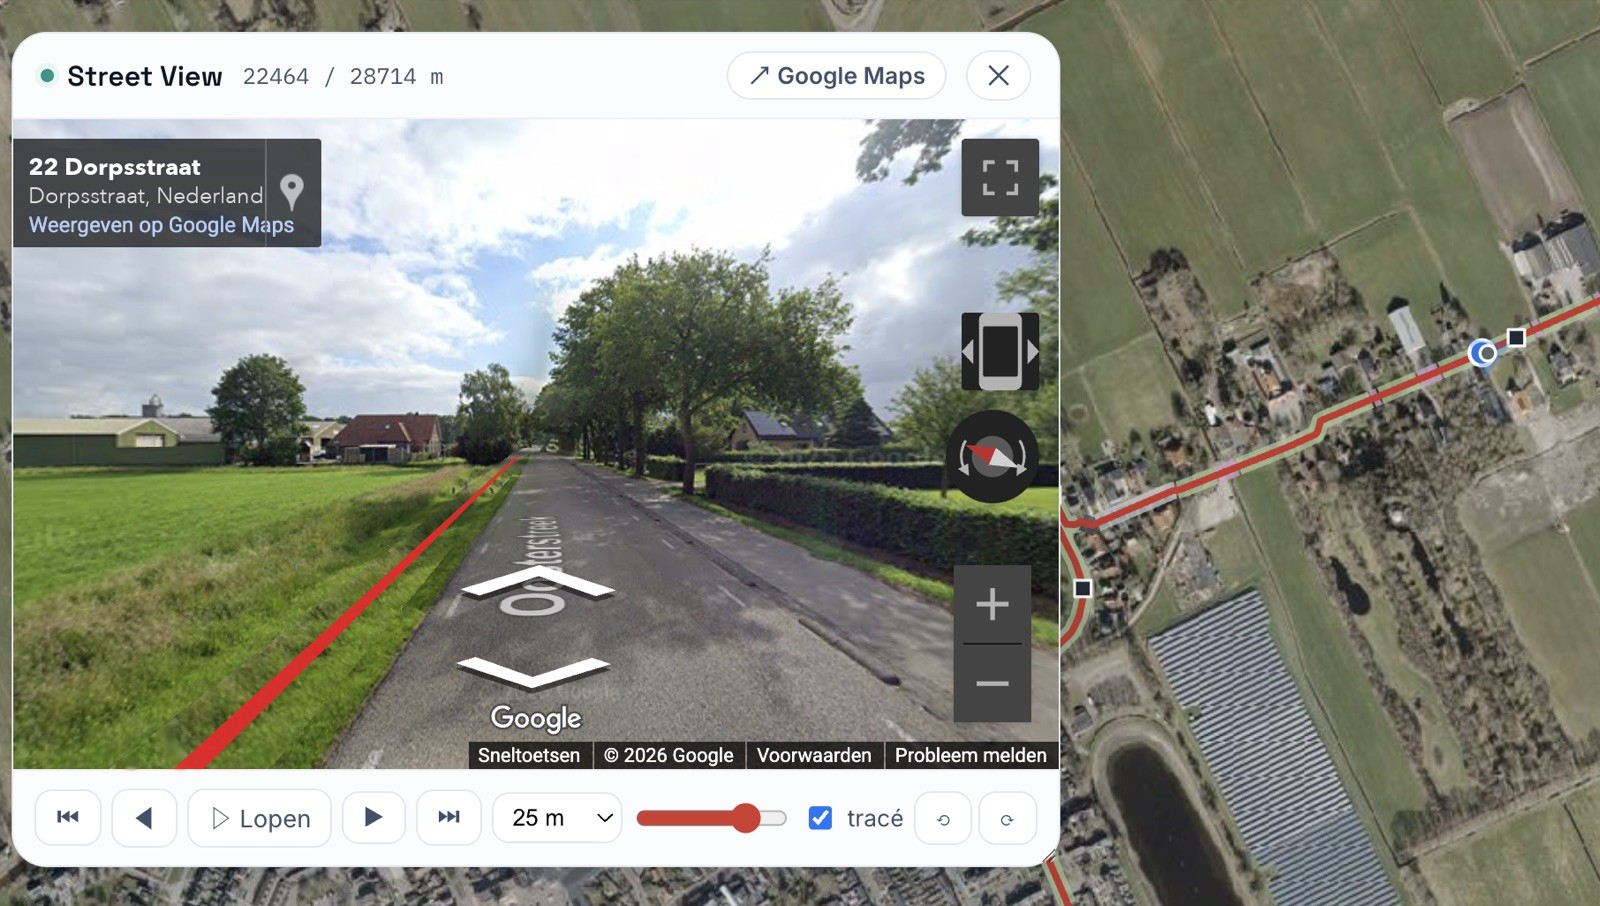
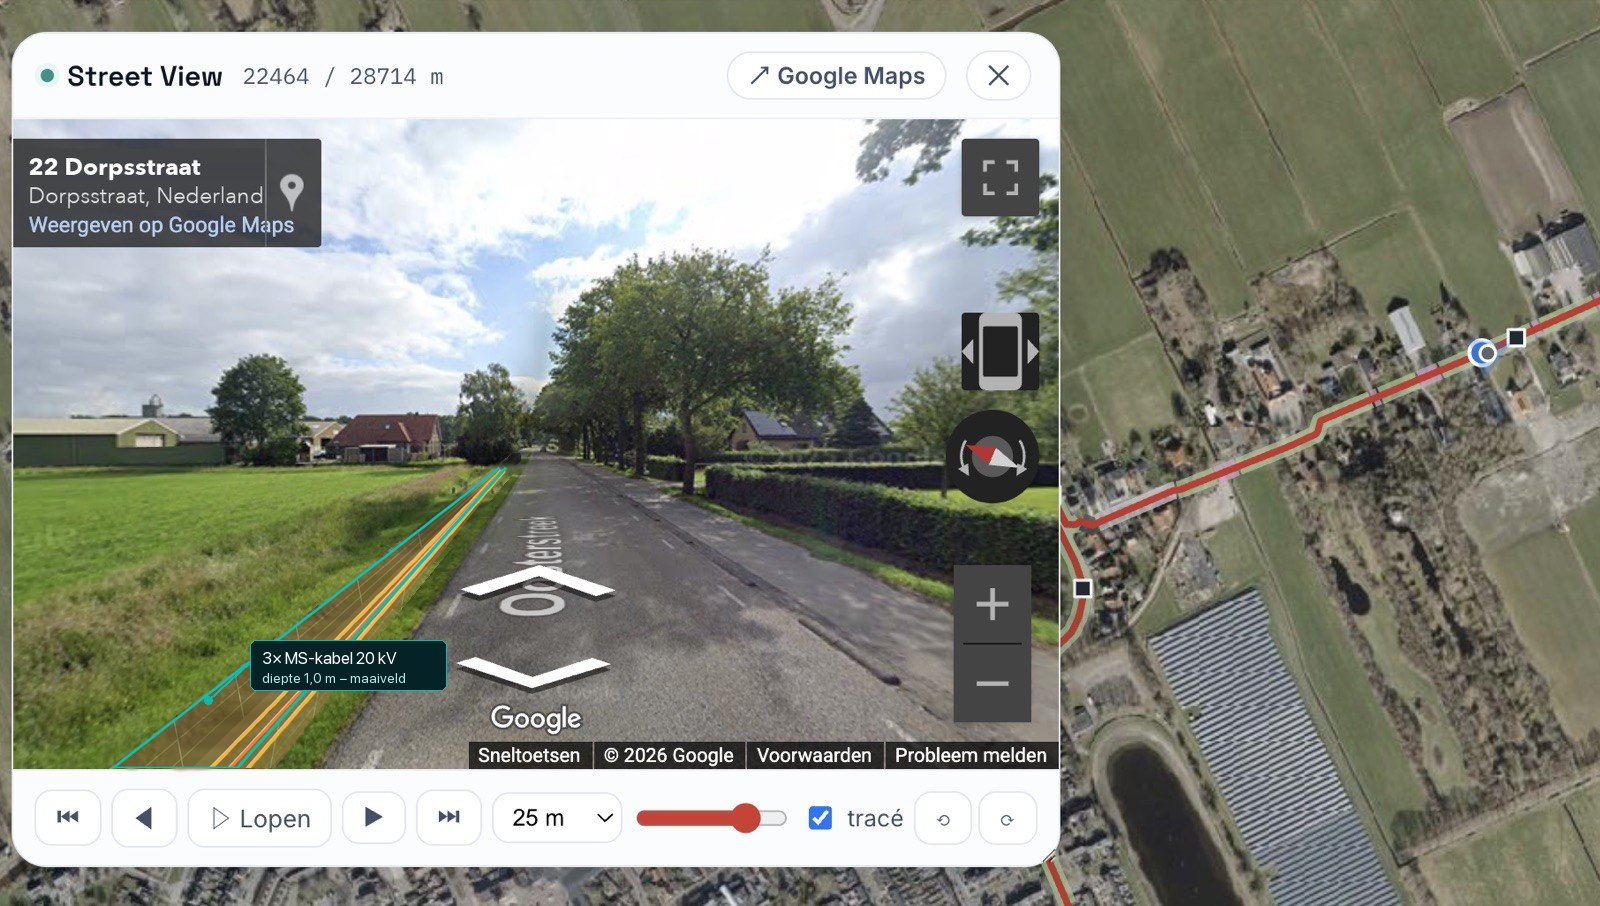
Street View met AR-sleuf en kabels, bureaustudies bij onderzoeken, nummering weg
- Tracé in Street View als doorkijk in de grond: sleuf met drie MS-kabels
- Bureaustudies als brede eerste kaart bij conditionerende onderzoeken
- Nummering weg bij diensten, onderzoeken en tijdwinst

Changed region(s): [[0.0625, 0.5254, 0.3125, 0.8653], [0.3125, 0.4945, 0.3438, 0.5254]]

diff --git a/index.html b/index.html
@@ -8,7 +8,7 @@
   <link rel="preconnect" href="https://fonts.googleapis.com">
   <link rel="preconnect" href="https://fonts.gstatic.com" crossorigin>
   <link href="https://fonts.googleapis.com/css2?family=Inter:wght@400;500;600;700&family=Space+Grotesk:wght@500;600;700&family=JetBrains+Mono:wght@500;700&display=swap" rel="stylesheet">
-  <link rel="stylesheet" href="css/style.css?v=20261020-18">
+  <link rel="stylesheet" href="css/style.css?v=20261021-1">
 </head>
 <body>
   <svg width="0" height="0" style="position:absolute" aria-hidden="true" focusable="false">
@@ -215,7 +215,7 @@
         </div>
 
         <figure class="expertise-visual">
-          <img src="images/trace-viewer.jpg?v=2" alt="Tracéviewer van VECTOR met een kabeltracé over satellietbeeld en een Street View-weergave langs het tracé" loading="lazy">
+          <img src="images/trace-viewer.jpg?v=3" alt="Tracéviewer van VECTOR: kabeltracé over satellietbeeld en een Street View-weergave waarin je als augmented reality door de grond kijkt naar drie kabels in de sleuf" loading="lazy">
         </figure>
       </div>
 
@@ -245,7 +245,6 @@
 
       <div class="service-grid">
         <article class="service-card featured">
-          <span class="card-number">01</span>
           <h3>Ontwerp en engineering</h3>
           <p>Tracés voor middenspanningsverbindingen en transportleidingen, uitgewerkt van tracéstudie tot definitief ontwerp, met overdraagbare documentatie.</p>
           <ul>
@@ -256,7 +255,6 @@
         </article>
 
         <article class="service-card featured ai-card">
-          <span class="card-number">02</span>
           <h3>Ontwerpversnelling met onze procestool</h3>
           <p>Tracéontwerpen, dwarsprofielen en projectinformatie sneller en beter, van eerste concept tot definitief ontwerp.</p>
           <ul>
@@ -267,7 +265,6 @@
         </article>
 
         <article class="service-card">
-          <span class="card-number">03</span>
           <h3>Data en kwaliteitsborging</h3>
           <p>Gestructureerde projectinformatie, zodat tracékeuzes, diepteliggingen, raakvlakken en revisies traceerbaar en controleerbaar blijven.</p>
         </article>
@@ -366,11 +363,15 @@
         <p class="section-kicker">Conditionerende onderzoeken</p>
         <h2>Vroeg weten wat de ondergrond en de omgeving toelaten.</h2>
         <p>
-          Onderzoeken bepalen of een tracé uitvoerbaar en vergunbaar is. Wij zetten ze vroeg uit en laten ze gelijk oplopen met het ontwerp, zodat de uitkomsten op tijd in het tracé landen.
+          Onderzoeken bepalen of een tracé uitvoerbaar en vergunbaar is. We beginnen met bureaustudies op bestaande gegevens en zetten daarna gericht veldonderzoek uit, gelijk met het ontwerp, zodat de uitkomsten op tijd in het tracé landen.
         </p>
       </div>
 
       <ol class="study-grid">
+        <li class="study-card study-card-lead">
+          <h3>Bureaustudies</h3>
+          <p>Vooraf in kaart: bestaande gegevens, historische kaarten en archieven, bodem- en NGE-informatie, archeologische verwachtingen en beschermde gebieden. Zo weten we waar veldonderzoek nodig is en waar niet.</p>
+        </li>
         <li class="study-card">
           <h3>Bestaande kabels en leidingen</h3>
           <p>KLIC-melding en inventarisatie van bestaande netten langs het hele tracé.</p>
@@ -578,12 +579,10 @@
 
       <div class="gain-grid gain-grid-2">
         <article class="gain-card">
-          <span class="gain-num">01</span>
           <h3>Optimale inzet van expertise</h3>
           <p>Onze ervaren engineers besteden hun tijd aan beoordelen, kiezen en afstemmen. Uitzoekwerk, tekenwerk en berekeningen versnelt de procestool. Een klein kernteam met specialisten op afroep betekent geen wachten op capaciteit en weinig overdrachten.</p>
         </article>
         <article class="gain-card">
-          <span class="gain-num">02</span>
           <h3>Eerder in het proces een beter ontwerp</h3>
           <p>Kaarten, knelpunten en varianten liggen in de eerste weken al op tafel, en onderzoeken en vergunningen lopen vanaf het begin mee. Het ontwerp staat daardoor al in SO en VO, en in het DO hoeft er weinig terug.</p>
         </article>

diff --git a/css/style.css b/css/style.css
@@ -705,18 +705,6 @@ h3 { margin-bottom: 10px; font-size: 1.15rem; font-weight: 600; line-height: 1.3
 .service-card p { color: var(--muted); }
 .service-card.featured p { color: rgba(255, 255, 255, .78); }
 
-.card-number {
-  display: inline-block;
-  margin-bottom: 28px;
-  color: var(--amber);
-  font-family: var(--font-mono);
-  font-size: .8rem;
-  font-weight: 700;
-  letter-spacing: .1em;
-}
-
-.service-card:not(.featured) .card-number { color: var(--green-dark); }
-
 .service-card ul { display: grid; gap: 12px; margin: 24px 0 0; padding: 0; list-style: none; }
 
 .service-card li {
@@ -879,20 +867,7 @@ h3 { margin-bottom: 10px; font-size: 1.15rem; font-weight: 600; line-height: 1.3
 .gain-grid-2 .gain-card h3 { font-size: 1.25rem; }
 .gain-card { padding-top: 6px; border-top: 2px solid var(--navy); }
 
-.gain-num {
-  display: block;
-  margin: 16px 0 12px;
-  font-family: var(--font-head);
-  font-size: 2.3rem;
-  font-weight: 700;
-  line-height: 1;
-  background: var(--gradient-vector);
-  -webkit-background-clip: text;
-  background-clip: text;
-  color: transparent;
-}
-
-.gain-card h3 { font-size: 1.08rem; }
+.gain-card h3 { margin-top: 18px; font-size: 1.08rem; }
 .gain-total { margin: 30px 0 0; padding-top: 22px; border-top: 1px solid var(--line); font-size: .9rem; line-height: 1.6; color: var(--muted); }
 .assure-grid { display: grid; grid-template-columns: repeat(2, minmax(0, 1fr)); gap: 28px; margin-top: 56px; }
 .assure-card { padding: 30px 32px; background: var(--paper, #f6f8f9); border: 1px solid var(--line); border-top: 3px solid var(--amber); border-radius: 10px; }
@@ -1384,10 +1359,11 @@ h3 { margin-bottom: 10px; font-size: 1.15rem; font-weight: 600; line-height: 1.3
 /* ---------- Conditionerende onderzoeken ---------- */
 .studies-section { background: var(--paper); }
 .studies-section .section-heading p { max-width: 720px; color: var(--muted); font-size: 1.05rem; }
-.study-grid { display: grid; grid-template-columns: repeat(4, minmax(0, 1fr)); gap: 18px; margin: 0 auto; padding: 0; list-style: none; counter-reset: study; }
-.study-card { position: relative; padding: 24px 22px; background: var(--white); border-radius: 10px; border-top: 4px solid var(--teal); counter-increment: study; }
-.study-card::before { content: counter(study, decimal-leading-zero); display: block; margin-bottom: 14px; font: 700 .8rem var(--font-mono); color: var(--teal-dark); }
+.study-grid { display: grid; grid-template-columns: repeat(4, minmax(0, 1fr)); gap: 18px; margin: 0 auto; padding: 0; list-style: none; }
+.study-card { position: relative; padding: 24px 22px; background: var(--white); border-radius: 10px; border-top: 4px solid var(--teal); }
 .study-card h3 { margin-bottom: 8px; font-size: 1.08rem; }
+.study-card-lead { grid-column: 1 / -1; background: linear-gradient(100deg, rgba(11, 188, 174, .12), var(--white) 60%); }
+.study-card-lead p { max-width: 760px; }
 .study-card p { margin: 0; color: var(--muted); font-size: .93rem; line-height: 1.55; }
 @media (max-width: 1020px) { .study-grid { grid-template-columns: repeat(2, minmax(0, 1fr)); } }
 @media (max-width: 760px) { .study-grid { grid-template-columns: 1fr; } }
